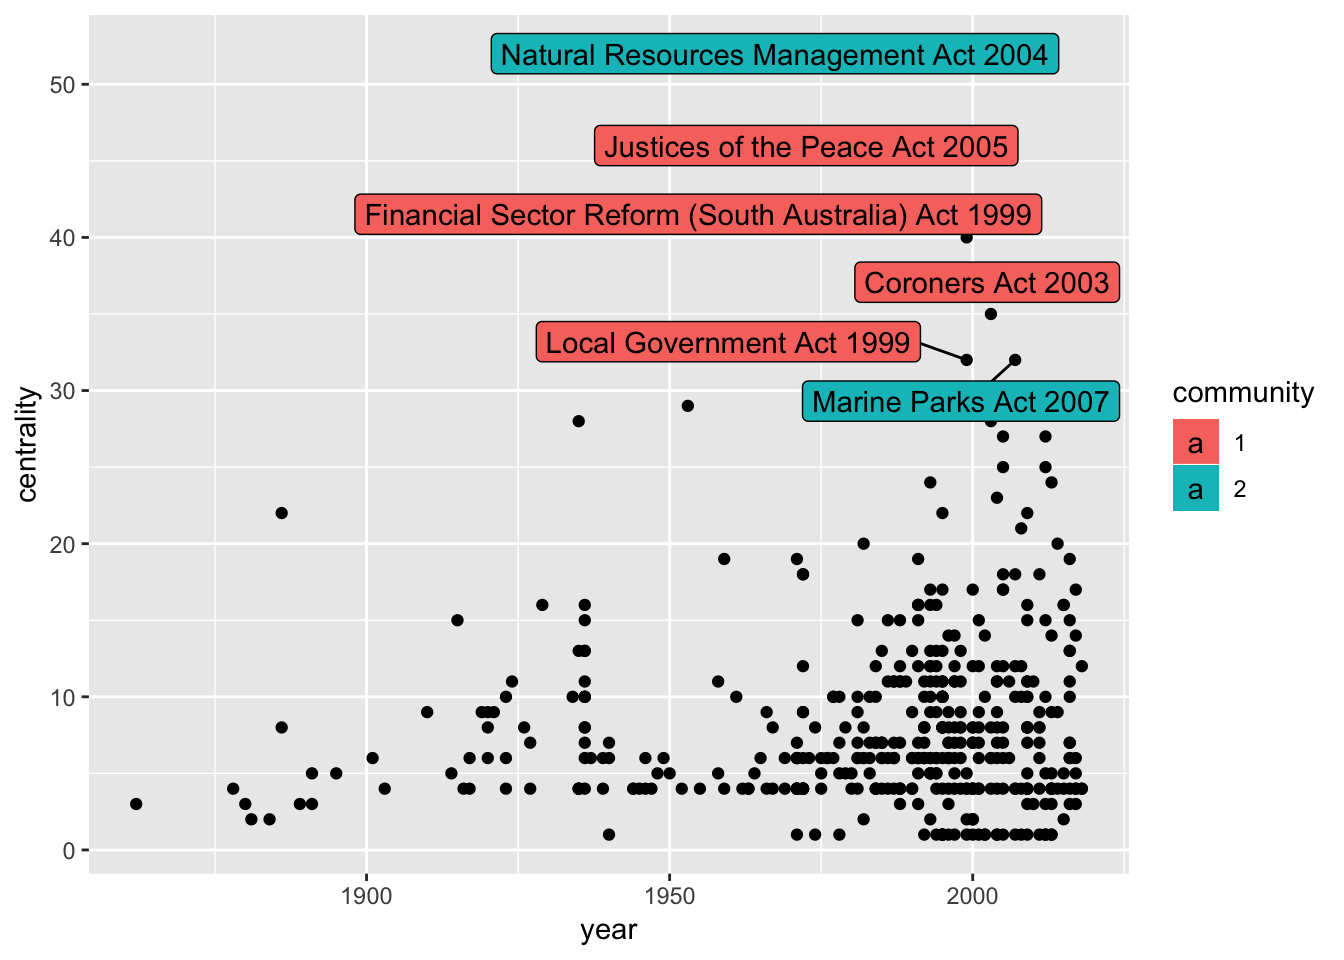
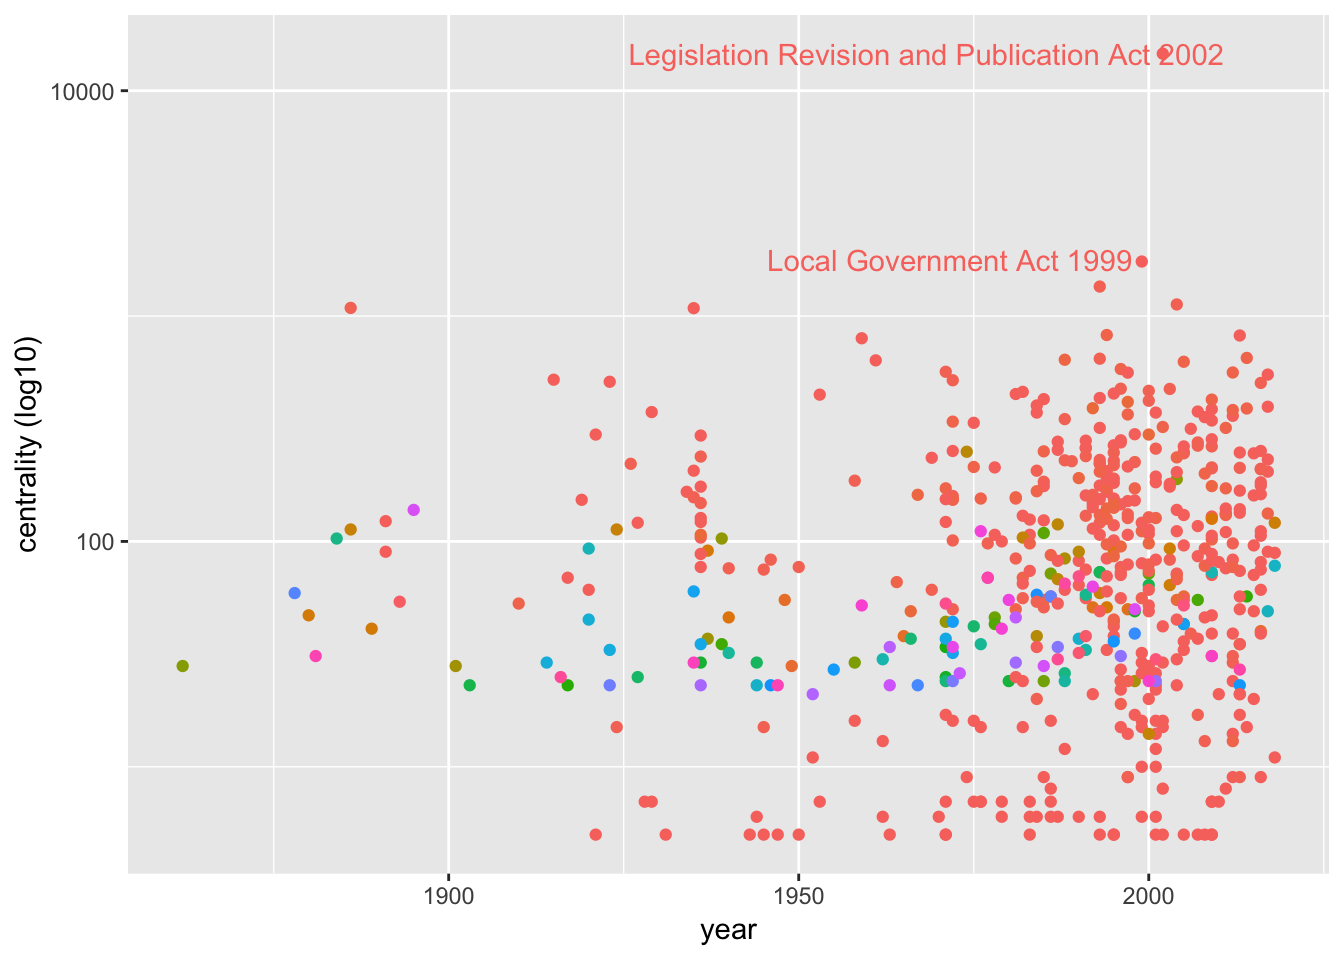
Redone legislation post including better regex to get all the act mentions

diff --git a/content/post/2018-11-01.html b/content/post/2018-11-01.html
@@ -43,7 +43,6 @@ tags:
 <h2>A list of legislation</h2>
 <p>The current legislation is in a folder called “A” (for “Acts”).</p>
 <pre class="r"><code>library(here)
-library(striprtf)
 library(tidyverse)
 library(tidygraph)
 library(igraph)
@@ -51,29 +50,56 @@ library(ggraph)
 library(ggrepel)
 library(knitr)
 library(networkD3)
+library(readr)
 
-acts &lt;- list.files(path = here(&quot;static&quot;, &quot;A&quot;), 
-                        pattern = &quot;rtf$&quot;, 
-                        recursive = TRUE) %&gt;%
+acts &lt;- list.files(path = here(&quot;static&quot;, &quot;A&quot;)) %&gt;%
   tibble() %&gt;%
-  rename(&quot;directory&quot; = &quot;.&quot;) %&gt;%
-  mutate(from = str_extract(directory, &quot;.+?(?=/)&quot;))</code></pre>
+  rename(&quot;from&quot; = &quot;.&quot;) %&gt;%
+  mutate(directory = list.files(path = here(&quot;static&quot;, &quot;A&quot;), 
+                                full.names = TRUE, 
+                                recursive = TRUE, 
+                                pattern = &quot;rtf$&quot;))</code></pre>
 </div>
 <div id="look-for-mentions" class="section level2">
 <h2>Look for mentions</h2>
-<p>For some inexplicable reason the content of the acts is stored in rich text format. But <code>striprtf::read_rtf</code> works well.</p>
+<p>This was a challenge. The biggest challenge was dealing with <em>rich text format!</em>.</p>
+<p>For some inexplicable reason the content of the acts is stored in rich text format. The <code>striprtf::read_rtf</code> function looked promising but I discovered that the names of the acts are <em>sometimes</em> hyperlinked to the website for that act. And because of this, the whole name of the act is <em>sometimes</em> removed from the document when its imported. Take these examples from my own act:</p>
+<blockquote>
+<p>“under the Equal Opportunity Act 1984 and, conversely”</p>
+<p>—This is how a phrase citing another act renders in the <a href="https://www.legislation.sa.gov.au/LZ/C/A/CHILDREN%20AND%20YOUNG%20PEOPLE%20(OVERSIGHT%20AND%20ADVOCACY%20BODIES)%20ACT%202016/CURRENT/2016.48.AUTH.PDF">pdf</a> of my act.</p>
+</blockquote>
+<blockquote>
+<p>“under the and, conversely”</p>
+<p>—This is how it is imported by <code>read_rtf</code>. The name of the act has disapeared because the name of the act is buried in code that <code>read_rtf</code> helpfully removes!</p>
+</blockquote>
+<p>So, I was left with importing the full underlying code with the hope of writing regex later to pull the names of the acts out.</p>
 <pre class="r"><code>content &lt;- &quot;&quot;
 for (n in 1:nrow(acts)) {
-  content[n] &lt;- read_rtf(here(&quot;static&quot;, &quot;A&quot;, acts$directory[n])) %&gt;%
+  content[n] &lt;- read_file(acts$directory[n]) %&gt;%
     paste(collapse = &quot; &quot;)
 }
 
 content &lt;- tibble(content)
 
 acts_content &lt;- bind_cols(acts, content)</code></pre>
-<p>Pulling the mentioned acts out of the content required a bit of regex. I tried and failed with a few differed regex approaches. Eventually I settled on this:</p>
-<pre class="r"><code>acts_mentions &lt;- acts_content %&gt;%
+<p>Pulling the mentioned acts out of the content required a bit of regex. I tried and failed with many differed regex approaches. After reading through the code and finding how the acts are written, I eventually I settled on doing this in the following steps.</p>
+<ol style="list-style-type: decimal">
+<li>Make all sorts of white space indicators a single white space. Note the use of <code>\\Q</code> at the start and <code>\\E</code> at the end of each pattern that needed to be replaced with a single whitespace. This makes the pattern literal instead of using the regex behaviour of the characters.</li>
+<li>Make all white space a single white space (incase the section above made multiple spaces)</li>
+<li>Remove appostrophes (official names of acts often include them but their file names do not)</li>
+<li>Extract the names of acts from the list of current acts (this limited the mentioned acts to current acts in South Australia - excluding federal acts that are often mentioned in state legislation)</li>
+<li>Unnesting the mentioned acts so that the tibble would be a nice edge list for doing graph work with.</li>
+</ol>
+<pre class="r"><code>acts_prep &lt;- acts_content %&gt;%
+  mutate(content = str_replace_all(content, &quot;\\Q%20\\E&quot;, &quot; &quot;)) %&gt;%
+  mutate(content = str_replace_all(content, &quot;\\Q\\&#39;a0\\E&quot;, &quot; &quot;)) %&gt;%
+  mutate(content = str_replace_all(content, &quot;\\Q\r\n\\E&quot;, &quot; &quot;)) %&gt;%
+  mutate(content = str_replace_all(content, &quot;\\Q\n \n\\E&quot;, &quot; &quot;)) %&gt;%
+  mutate(content = str_replace_all(content, &quot;\\Q\n*|  \n*|\\E&quot;, &quot; &quot;)) %&gt;%
   mutate(content = str_replace_all(content, &quot;\\s+&quot;, &quot; &quot;)) %&gt;% 
+  mutate(content = str_replace_all(content, &quot;&#39;&quot;, &quot;&quot;))
+
+acts_mentions &lt;- acts_prep %&gt;%
   mutate(to = str_extract_all(content, paste(as.character(from), collapse=&quot;|&quot;))) %&gt;%
   select(from, to) %&gt;%
   unnest(to)</code></pre>
@@ -97,30 +123,33 @@ ggraph(acts_graph, layout = &#39;graphopt&#39;, charge = .05) +
   labs(title = str_wrap(&quot;Hairball of active legislation with at least one edge (including loops) in South Australia November 2018&quot;, 50), caption = &quot;Colour is the result of community detection&quot;)</code></pre>
 <p><img src="/post/2018-11-01_files/figure-html/unnamed-chunk-4-1.png" width="672" /></p>
 <p>Ok, that needs some work before it makes any sense. The most useful thing might be trimming off the least connected acts.</p>
-<pre class="r"><code>ggraph(filter(acts_graph, centrality &gt; 8), layout = &#39;graphopt&#39;, charge = .05) + 
-    geom_edge_link(alpha = .8) + 
+<pre class="r"><code>ggraph(filter(acts_graph, centrality &gt; 200), 
+       layout = &#39;igraph&#39;, 
+       algorithm = &quot;nicely&quot;) + 
+    geom_edge_link(alpha = .05) + 
     geom_node_point(aes(colour = community, size = centrality), alpha = .8) + 
   guides(colour = FALSE) + 
     theme_graph() + 
-  labs(title = str_wrap(&quot;Hairball of active legislation with more than eight edges (including loops) in South Australia November 2018&quot;, 50), subtitle = &quot;Includng nodes with degree greater than eight (including loops)&quot;, caption = &quot;Colour is the result of community detection&quot;)</code></pre>
+  labs(title = str_wrap(&quot;(less of a) Hairball of active legislation in South Australia November 2018&quot;, 50), subtitle = &quot;Of nodes with degree greater than two hundred (including loops)&quot;, caption = &quot;Colour is the result of community detection&quot;)</code></pre>
 <p><img src="/post/2018-11-01_files/figure-html/unnamed-chunk-5-1.png" width="672" /></p>
-<p>This looks a bit more promising. There seem to be two majour clusters in the network. Lets have a look at the most connected acts in each of the clusters.</p>
+<p>This looks a bit more promising. There seem to be three majour clusters in the network. Lets have a look at the most connected acts in each of the clusters.</p>
 <pre class="r"><code>acts_top &lt;- acts_graph %&gt;%
+  filter(centrality &gt; 200) %&gt;%
   activate(nodes) %&gt;%
   as_tibble() %&gt;%
-  filter(community %in% c(1,2)) %&gt;%
+  filter(community %in% c(1, 2, 3)) %&gt;%
   group_by(community) %&gt;%
-  top_n(10) %&gt;%
+  top_n(6) %&gt;%
   ungroup()
 
 ggplot(data = acts_top, aes(x = fct_reorder(name, centrality), y = centrality, fill = community)) + 
   geom_col() + 
-  facet_wrap(vars(community), nrow = 2, scales = &quot;free&quot;) + 
+  facet_wrap(vars(community), nrow = 3, scales = &quot;free&quot;) + 
   coord_flip() + 
   guides(fill = FALSE) + 
-  labs(title = str_wrap(&quot;Top ten most connected acts in the two largest communities&quot;, 40), x = &quot;name&quot;)</code></pre>
+  labs(title = str_wrap(&quot;Top ten most connected acts in the three largest communities&quot;, 40), subtitle = &quot;Of nodes with degree greater than two hundred (including loops)&quot;, x = &quot;Act name&quot;)</code></pre>
 <p><img src="/post/2018-11-01_files/figure-html/unnamed-chunk-6-1.png" width="672" /></p>
-<p>So it seems that one of the clusters (number 2) is strongly related to the management of the natural environment. The other cluster shown here (number 1) is a collection of administrative functions to do with levels of government and finance.</p>
+<p>So it seems that cluster 1 is related to administrative arrangements. Of the other two majour clusters, one (number 2) is related to the management of the environment and the other (number 1) is related to the management of human services. So, this clustering makes a lot of sense.</p>
 </div>
 <div id="explore-the-metrics" class="section level2">
 <h2>Explore the metrics</h2>
@@ -130,21 +159,24 @@ ggplot(data = acts_top, aes(x = fct_reorder(name, centrality), y = centrality, f
   as_tibble()
 
 ggplot(data = acts_metrics, aes(x = centrality)) + 
-  geom_histogram(binwidth = 2) + 
+  geom_histogram(binwidth = 10) + 
   labs(title = str_wrap(&quot;Histogram of centrality of acts with at least one edge (including loops) in the network of legislation in South Australia, November 2018&quot;, 70))</code></pre>
 <p><img src="/post/2018-11-01_files/figure-html/unnamed-chunk-7-1.png" width="672" /></p>
-<p>So, there are way more acts with few connections than there are acts with many connection. Its not quite on the scale of a power law though.</p>
+<p>So, there are way more acts with few connections than there are acts with many connections.</p>
 <p>Something that would be interesting to check would be the relationship between the centrality of the acts and the year the act was assented to by the Governor.</p>
 <pre class="r"><code>acts_metrics &lt;- acts_metrics %&gt;%
   mutate(year = str_sub(name, -4, -1)) %&gt;%
   mutate(year = as.numeric(year))
 
-ggplot(data = acts_metrics, aes(x = year, y = centrality)) + 
+ggplot(data = acts_metrics, aes(x = year, y = centrality, colour = community)) + 
   geom_point() +
-  geom_label_repel(data = subset(acts_metrics, centrality &gt; 30), 
-                  aes(label = name, fill = community))</code></pre>
+  scale_y_log10() + 
+  geom_text_repel(data = subset(acts_metrics, centrality &gt; 1500), 
+                  aes(label = name, colour = community)) + 
+  guides(colour = FALSE) + 
+  labs(y = &quot;centrality (log10)&quot;)</code></pre>
 <p><img src="/post/2018-11-01_files/figure-html/unnamed-chunk-8-1.png" width="672" /></p>
-<p>So the more recent acts are also the more interlinked acts. And from the change in density on the x axis, it seems that there are way more recent acts in the network. Also, yes, I snuck the community detection back in there for the highly connected acts and it seems that the highly connected acts we identified above as being in the largest clusters are also all quite recently accented to.</p>
+<p>While its clear that there is more recent legislation is operation than older legislation, its not entirely clear if there is a relationship between centrality and longevity of an act.</p>
 <p>One other thing really stuck out is the line of acts that seem to be preserved in the current legislation that were all assented to in 1936.</p>
 <pre class="r"><code>what_a_year &lt;- acts_metrics %&gt;%
   filter(year == 1936) %&gt;% 

diff --git a/public/post/2018/11/01/legislative-network/index.html b/public/post/2018/11/01/legislative-network/index.html
@@ -64,7 +64,6 @@
 <h2>A list of legislation</h2>
 <p>The current legislation is in a folder called “A” (for “Acts”).</p>
 <pre class="r"><code>library(here)
-library(striprtf)
 library(tidyverse)
 library(tidygraph)
 library(igraph)
@@ -72,29 +71,56 @@ library(ggraph)
 library(ggrepel)
 library(knitr)
 library(networkD3)
+library(readr)
 
-acts &lt;- list.files(path = here(&quot;static&quot;, &quot;A&quot;), 
-                        pattern = &quot;rtf$&quot;, 
-                        recursive = TRUE) %&gt;%
+acts &lt;- list.files(path = here(&quot;static&quot;, &quot;A&quot;)) %&gt;%
   tibble() %&gt;%
-  rename(&quot;directory&quot; = &quot;.&quot;) %&gt;%
-  mutate(from = str_extract(directory, &quot;.+?(?=/)&quot;))</code></pre>
+  rename(&quot;from&quot; = &quot;.&quot;) %&gt;%
+  mutate(directory = list.files(path = here(&quot;static&quot;, &quot;A&quot;), 
+                                full.names = TRUE, 
+                                recursive = TRUE, 
+                                pattern = &quot;rtf$&quot;))</code></pre>
 </div>
 <div id="look-for-mentions" class="section level2">
 <h2>Look for mentions</h2>
-<p>For some inexplicable reason the content of the acts is stored in rich text format. But <code>striprtf::read_rtf</code> works well.</p>
+<p>This was a challenge. The biggest challenge was dealing with <em>rich text format!</em>.</p>
+<p>For some inexplicable reason the content of the acts is stored in rich text format. The <code>striprtf::read_rtf</code> function looked promising but I discovered that the names of the acts are <em>sometimes</em> hyperlinked to the website for that act. And because of this, the whole name of the act is <em>sometimes</em> removed from the document when its imported. Take these examples from my own act:</p>
+<blockquote>
+<p>“under the Equal Opportunity Act 1984 and, conversely”</p>
+<p>—This is how a phrase citing another act renders in the <a href="https://www.legislation.sa.gov.au/LZ/C/A/CHILDREN%20AND%20YOUNG%20PEOPLE%20(OVERSIGHT%20AND%20ADVOCACY%20BODIES)%20ACT%202016/CURRENT/2016.48.AUTH.PDF">pdf</a> of my act.</p>
+</blockquote>
+<blockquote>
+<p>“under the and, conversely”</p>
+<p>—This is how it is imported by <code>read_rtf</code>. The name of the act has disapeared because the name of the act is buried in code that <code>read_rtf</code> helpfully removes!</p>
+</blockquote>
+<p>So, I was left with importing the full underlying code with the hope of writing regex later to pull the names of the acts out.</p>
 <pre class="r"><code>content &lt;- &quot;&quot;
 for (n in 1:nrow(acts)) {
-  content[n] &lt;- read_rtf(here(&quot;static&quot;, &quot;A&quot;, acts$directory[n])) %&gt;%
+  content[n] &lt;- read_file(acts$directory[n]) %&gt;%
     paste(collapse = &quot; &quot;)
 }
 
 content &lt;- tibble(content)
 
 acts_content &lt;- bind_cols(acts, content)</code></pre>
-<p>Pulling the mentioned acts out of the content required a bit of regex. I tried and failed with a few differed regex approaches. Eventually I settled on this:</p>
-<pre class="r"><code>acts_mentions &lt;- acts_content %&gt;%
+<p>Pulling the mentioned acts out of the content required a bit of regex. I tried and failed with many differed regex approaches. After reading through the code and finding how the acts are written, I eventually I settled on doing this in the following steps.</p>
+<ol style="list-style-type: decimal">
+<li>Make all sorts of white space indicators a single white space. Note the use of <code>\\Q</code> at the start and <code>\\E</code> at the end of each pattern that needed to be replaced with a single whitespace. This makes the pattern literal instead of using the regex behaviour of the characters.</li>
+<li>Make all white space a single white space (incase the section above made multiple spaces)</li>
+<li>Remove appostrophes (official names of acts often include them but their file names do not)</li>
+<li>Extract the names of acts from the list of current acts (this limited the mentioned acts to current acts in South Australia - excluding federal acts that are often mentioned in state legislation)</li>
+<li>Unnesting the mentioned acts so that the tibble would be a nice edge list for doing graph work with.</li>
+</ol>
+<pre class="r"><code>acts_prep &lt;- acts_content %&gt;%
+  mutate(content = str_replace_all(content, &quot;\\Q%20\\E&quot;, &quot; &quot;)) %&gt;%
+  mutate(content = str_replace_all(content, &quot;\\Q\\&#39;a0\\E&quot;, &quot; &quot;)) %&gt;%
+  mutate(content = str_replace_all(content, &quot;\\Q\r\n\\E&quot;, &quot; &quot;)) %&gt;%
+  mutate(content = str_replace_all(content, &quot;\\Q\n \n\\E&quot;, &quot; &quot;)) %&gt;%
+  mutate(content = str_replace_all(content, &quot;\\Q\n*|  \n*|\\E&quot;, &quot; &quot;)) %&gt;%
   mutate(content = str_replace_all(content, &quot;\\s+&quot;, &quot; &quot;)) %&gt;% 
+  mutate(content = str_replace_all(content, &quot;&#39;&quot;, &quot;&quot;))
+
+acts_mentions &lt;- acts_prep %&gt;%
   mutate(to = str_extract_all(content, paste(as.character(from), collapse=&quot;|&quot;))) %&gt;%
   select(from, to) %&gt;%
   unnest(to)</code></pre>
@@ -118,30 +144,33 @@ ggraph(acts_graph, layout = &#39;graphopt&#39;, charge = .05) +
   labs(title = str_wrap(&quot;Hairball of active legislation with at least one edge (including loops) in South Australia November 2018&quot;, 50), caption = &quot;Colour is the result of community detection&quot;)</code></pre>
 <p><img src="/post/2018-11-01_files/figure-html/unnamed-chunk-4-1.png" width="672" /></p>
 <p>Ok, that needs some work before it makes any sense. The most useful thing might be trimming off the least connected acts.</p>
-<pre class="r"><code>ggraph(filter(acts_graph, centrality &gt; 8), layout = &#39;graphopt&#39;, charge = .05) + 
-    geom_edge_link(alpha = .8) + 
+<pre class="r"><code>ggraph(filter(acts_graph, centrality &gt; 200), 
+       layout = &#39;igraph&#39;, 
+       algorithm = &quot;nicely&quot;) + 
+    geom_edge_link(alpha = .05) + 
     geom_node_point(aes(colour = community, size = centrality), alpha = .8) + 
   guides(colour = FALSE) + 
     theme_graph() + 
-  labs(title = str_wrap(&quot;Hairball of active legislation with more than eight edges (including loops) in South Australia November 2018&quot;, 50), subtitle = &quot;Includng nodes with degree greater than eight (including loops)&quot;, caption = &quot;Colour is the result of community detection&quot;)</code></pre>
+  labs(title = str_wrap(&quot;(less of a) Hairball of active legislation in South Australia November 2018&quot;, 50), subtitle = &quot;Of nodes with degree greater than two hundred (including loops)&quot;, caption = &quot;Colour is the result of community detection&quot;)</code></pre>
 <p><img src="/post/2018-11-01_files/figure-html/unnamed-chunk-5-1.png" width="672" /></p>
-<p>This looks a bit more promising. There seem to be two majour clusters in the network. Lets have a look at the most connected acts in each of the clusters.</p>
+<p>This looks a bit more promising. There seem to be three majour clusters in the network. Lets have a look at the most connected acts in each of the clusters.</p>
 <pre class="r"><code>acts_top &lt;- acts_graph %&gt;%
+  filter(centrality &gt; 200) %&gt;%
   activate(nodes) %&gt;%
   as_tibble() %&gt;%
-  filter(community %in% c(1,2)) %&gt;%
+  filter(community %in% c(1, 2, 3)) %&gt;%
   group_by(community) %&gt;%
-  top_n(10) %&gt;%
+  top_n(6) %&gt;%
   ungroup()
 
 ggplot(data = acts_top, aes(x = fct_reorder(name, centrality), y = centrality, fill = community)) + 
   geom_col() + 
-  facet_wrap(vars(community), nrow = 2, scales = &quot;free&quot;) + 
+  facet_wrap(vars(community), nrow = 3, scales = &quot;free&quot;) + 
   coord_flip() + 
   guides(fill = FALSE) + 
-  labs(title = str_wrap(&quot;Top ten most connected acts in the two largest communities&quot;, 40), x = &quot;name&quot;)</code></pre>
+  labs(title = str_wrap(&quot;Top ten most connected acts in the three largest communities&quot;, 40), subtitle = &quot;Of nodes with degree greater than two hundred (including loops)&quot;, x = &quot;Act name&quot;)</code></pre>
 <p><img src="/post/2018-11-01_files/figure-html/unnamed-chunk-6-1.png" width="672" /></p>
-<p>So it seems that one of the clusters (number 2) is strongly related to the management of the natural environment. The other cluster shown here (number 1) is a collection of administrative functions to do with levels of government and finance.</p>
+<p>So it seems that cluster 1 is related to administrative arrangements. Of the other two majour clusters, one (number 2) is related to the management of the environment and the other (number 1) is related to the management of human services. So, this clustering makes a lot of sense.</p>
 </div>
 <div id="explore-the-metrics" class="section level2">
 <h2>Explore the metrics</h2>
@@ -151,21 +180,24 @@ ggplot(data = acts_top, aes(x = fct_reorder(name, centrality), y = centrality, f
   as_tibble()
 
 ggplot(data = acts_metrics, aes(x = centrality)) + 
-  geom_histogram(binwidth = 2) + 
+  geom_histogram(binwidth = 10) + 
   labs(title = str_wrap(&quot;Histogram of centrality of acts with at least one edge (including loops) in the network of legislation in South Australia, November 2018&quot;, 70))</code></pre>
 <p><img src="/post/2018-11-01_files/figure-html/unnamed-chunk-7-1.png" width="672" /></p>
-<p>So, there are way more acts with few connections than there are acts with many connection. Its not quite on the scale of a power law though.</p>
+<p>So, there are way more acts with few connections than there are acts with many connections.</p>
 <p>Something that would be interesting to check would be the relationship between the centrality of the acts and the year the act was assented to by the Governor.</p>
 <pre class="r"><code>acts_metrics &lt;- acts_metrics %&gt;%
   mutate(year = str_sub(name, -4, -1)) %&gt;%
   mutate(year = as.numeric(year))
 
-ggplot(data = acts_metrics, aes(x = year, y = centrality)) + 
+ggplot(data = acts_metrics, aes(x = year, y = centrality, colour = community)) + 
   geom_point() +
-  geom_label_repel(data = subset(acts_metrics, centrality &gt; 30), 
-                  aes(label = name, fill = community))</code></pre>
+  scale_y_log10() + 
+  geom_text_repel(data = subset(acts_metrics, centrality &gt; 1500), 
+                  aes(label = name, colour = community)) + 
+  guides(colour = FALSE) + 
+  labs(y = &quot;centrality (log10)&quot;)</code></pre>
 <p><img src="/post/2018-11-01_files/figure-html/unnamed-chunk-8-1.png" width="672" /></p>
-<p>So the more recent acts are also the more interlinked acts. And from the change in density on the x axis, it seems that there are way more recent acts in the network. Also, yes, I snuck the community detection back in there for the highly connected acts and it seems that the highly connected acts we identified above as being in the largest clusters are also all quite recently accented to.</p>
+<p>While its clear that there is more recent legislation is operation than older legislation, its not entirely clear if there is a relationship between centrality and longevity of an act.</p>
 <p>One other thing really stuck out is the line of acts that seem to be preserved in the current legislation that were all assented to in 1936.</p>
 <pre class="r"><code>what_a_year &lt;- acts_metrics %&gt;%
   filter(year == 1936) %&gt;% 
